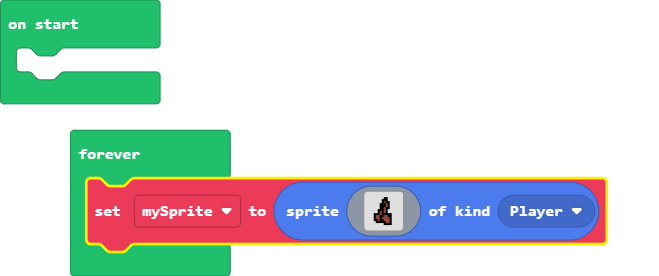
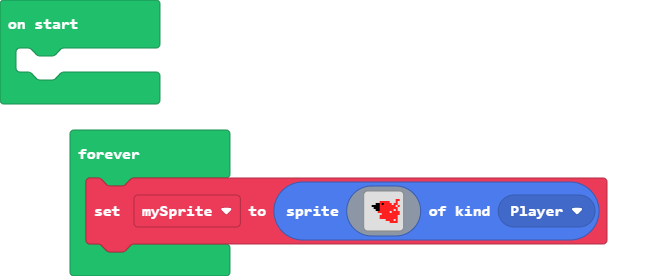
BDN

diff --git a/main.ts b/main.ts
@@ -2,20 +2,20 @@ let mySprite: Sprite = null
 forever(function () {
     mySprite = sprites.create(img`
         . . . . . . . . . . . . . . . . 
-        . . . . . . . . f f . . . . . . 
-        . . . . . . . f f f . . . . . . 
-        . . . . . . . f e f f . . . . . 
-        . . . . . . f f f e f . . . . . 
-        . . . . . . f f f e f . . . . . 
-        . . . . . . f f e f f . . . . . 
-        . . . . . f f f e f . . . . . . 
-        . . . . . f e f e f . . . . . . 
-        . . . f f f e f f f f f . . . . 
-        . . . f e e f f e e f f . . . . 
-        . . . f e e f e e e e f . . . . 
-        . . . f f e f f e e e f . . . . 
-        . . . . f f f f f e e f . . . . 
-        . . . . . . . . f f f f . . . . 
+        . . . . . . . . . . . . . . . . 
+        . . . . . . . . . . . . . . 2 2 
+        . . . . . . 2 2 2 2 2 . . . 2 . 
+        . . . . f f 2 f 2 2 2 2 . 2 2 . 
+        . . f f f f 2 2 2 2 2 2 2 2 . 2 
+        . . . f f f 2 2 2 2 2 2 2 2 2 . 
+        . . . . f f 2 2 2 2 2 2 2 . 2 . 
+        . . . . . 2 2 2 2 2 2 . 2 2 2 2 
+        . . . . . . . 2 2 2 2 2 2 2 2 2 
+        . . . . . . 2 2 2 2 2 2 2 2 2 . 
+        . . . . . . 2 2 2 2 2 2 2 2 2 . 
+        . . . . . . . . . 2 2 2 2 . 2 . 
+        . . . . . . . . . . . 2 2 2 2 . 
+        . . . . . . . . . . . . . . . . 
         . . . . . . . . . . . . . . . . 
         `, SpriteKind.Player)
 })
